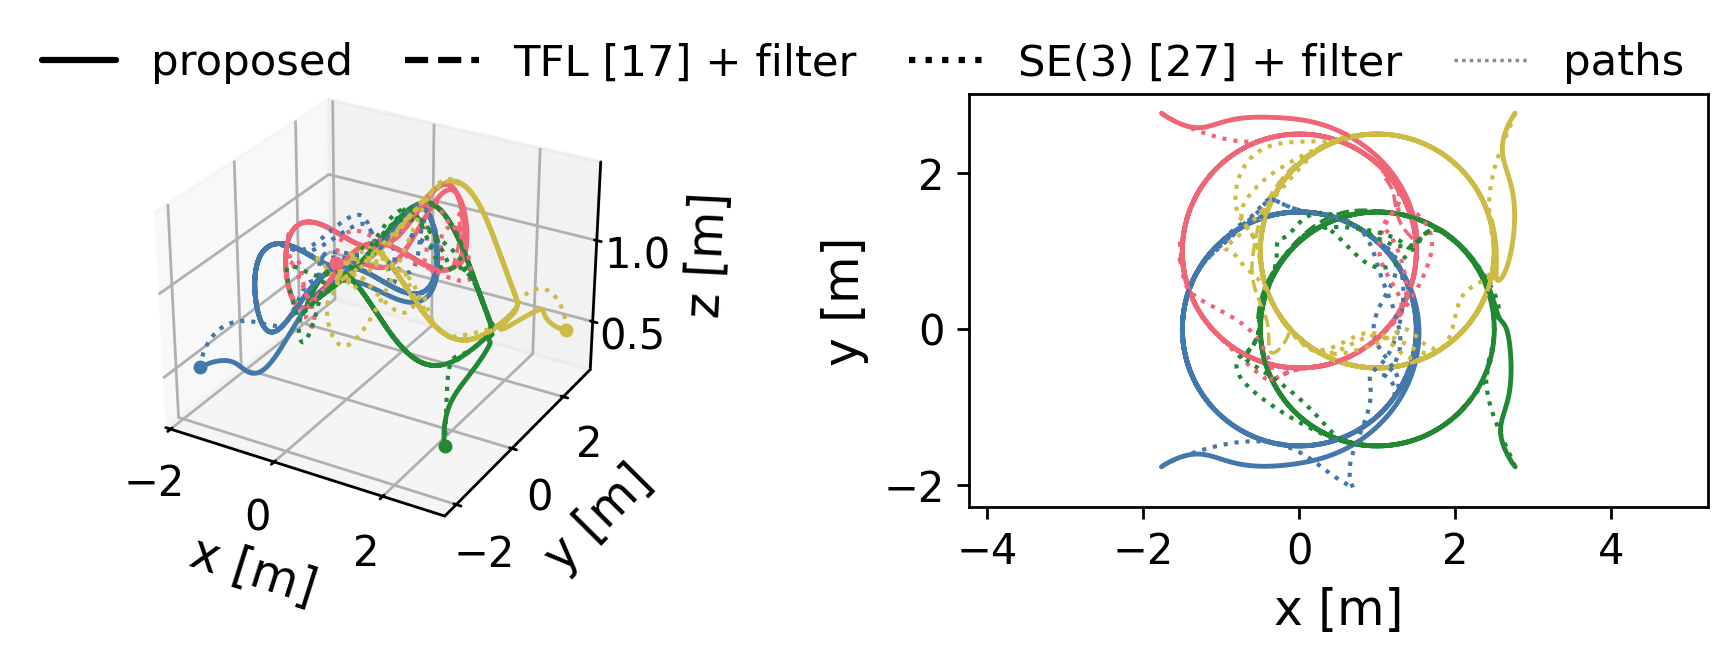
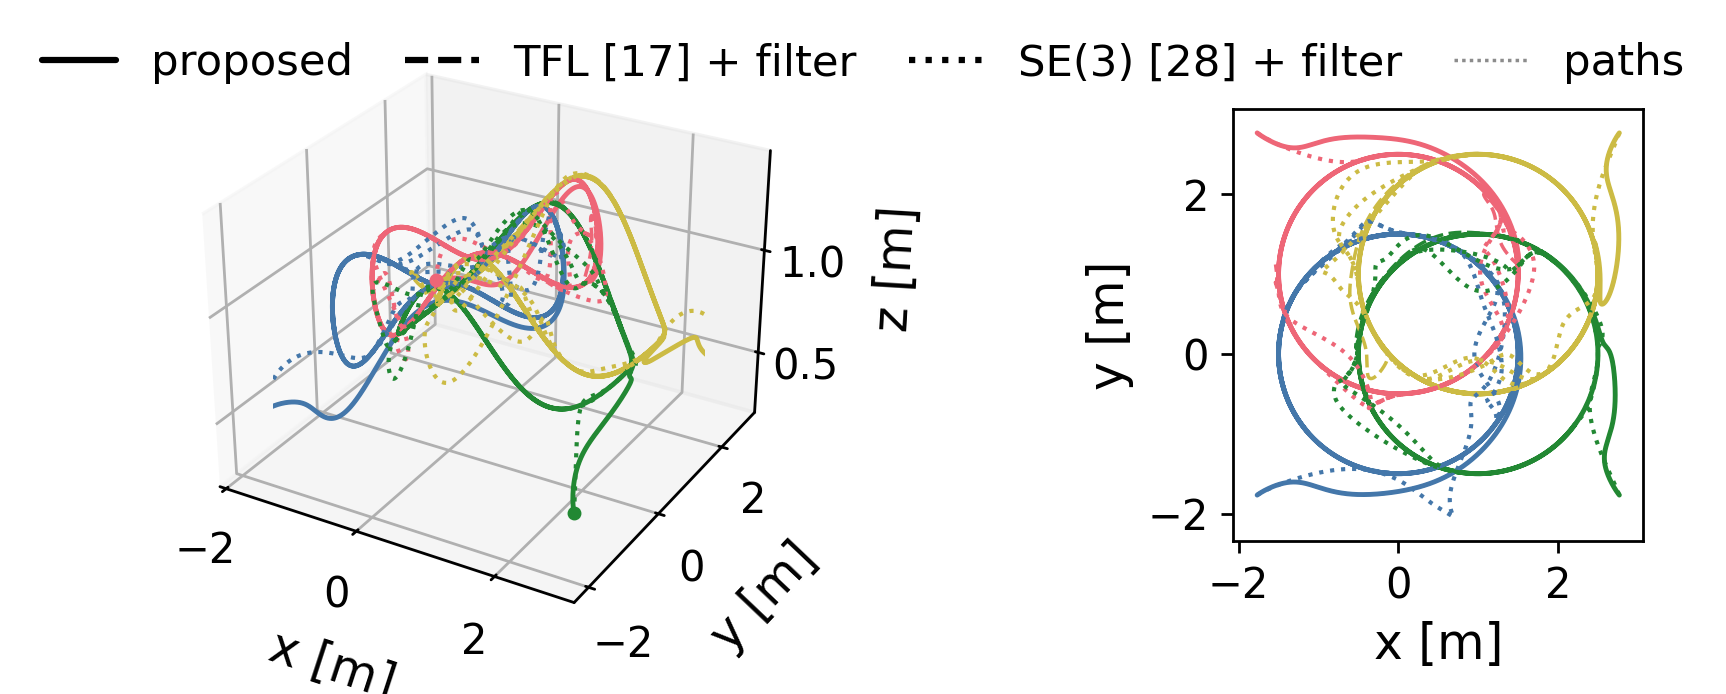
Point the project page at the GitHub repository explicitly and document the end-to-end reproduction path; refresh the figures

diff --git a/docs/index.html b/docs/index.html
@@ -25,6 +25,7 @@ window.MathJax = {tex:{inlineMath:[["\\(","\\)"]]}, svg:{fontCache:"global"}};
     <a href="#comparison">Comparison</a>
     <a href="#parameters">Parameters</a>
     <a href="#reproduce">Reproduce</a>
+    <a href="https://github.com/gradslab/safe_multiquad_pf">GitHub</a>
   </nav>
   <button id="theme" class="btn" type="button" aria-label="Switch colour theme">Theme</button>
 </header>
@@ -53,7 +54,7 @@ window.MathJax = {tex:{inlineMath:[["\\(","\\)"]]}, svg:{fontCache:"global"}};
       animations behind the paper's figures, the full three-controller comparison, and everything
       needed to reproduce them.</p>
     <div class="buttons">
-      <a class="btn primary" href="https://github.com/gradslab/safe_multiquad_pf">Code and data</a>
+      <a class="btn primary" href="https://github.com/gradslab/safe_multiquad_pf">GitHub: code and data</a>
       <a class="btn" href="#comparison">Comparison</a>
       <a class="btn" href="#reproduce">Reproduce the figures</a>
     </div>
@@ -191,10 +192,18 @@ window.MathJax = {tex:{inlineMath:[["\\(","\\)"]]}, svg:{fontCache:"global"}};
     <div class="sec-head">
       <span class="sec-tag">Reproduce</span>
       <h2>Reproducing this</h2>
-      <p>The simulation code is in the repository under <code>sim/</code>. The verification gates
+      <p>Everything in the paper and on this page comes out of the
+      <a href="https://github.com/gradslab/safe_multiquad_pf">GitHub repository</a>, from the
+      simulation code under <code>sim/</code>. The verification gates
       run first: they check the controller algebra over thousands of random states, validate the
       phase layer against finite differences, and cross-check the closed-form solve against a
-      numerical QP and the assembled dynamics against direct symbolic differentiation.</p>
+      numerical QP and the assembled dynamics against direct symbolic differentiation. The six
+      rollouts then write the state logs, the analysis script computes every number quoted in
+      Section&nbsp;V of the paper, <code>fig_paper_suite.py</code> regenerates the paper's
+      Figs.&nbsp;2 and&nbsp;3 together with the plots on this page, and
+      <code>drake_render.py</code> renders the animations above. One command,
+      <code>bash&nbsp;reproduce.sh</code>, runs the install, the gates, the rollouts, the
+      metrics, and the figures end to end.</p>
     </div>
 <pre><code><span class="c"># set up</span>
 git clone https://github.com/gradslab/safe_multiquad_pf.git

diff --git a/sim/experiments/fig_paper_suite.py b/sim/experiments/fig_paper_suite.py
@@ -31,7 +31,7 @@ import scenario_sine as sine
 
 COLORS = {"quad_A": "#4477AA", "quad_B": "#EE6677", "quad_C": "#228833", "quad_D": "#CCBB44"}
 STYLE = {"proposed": ("-", 1.4), "baseline": ("--", 1.0), "se3": (":", 1.2)}
-LABEL = {"proposed": "proposed", "baseline": "TFL [17] + filter", "se3": "SE(3) [27] + filter"}
+LABEL = {"proposed": "proposed", "baseline": "TFL [17] + filter", "se3": "SE(3) [28] + filter"}
 DS = 0.5
 
 plt.rcParams.update({"font.size": 8, "axes.labelsize": 8, "axes.titlesize": 8,
@@ -98,9 +98,12 @@ def traj_figure(scenario, N, tag, out, layout, top_xlim=None):
     runs = {c: r for c, r in runs.items() if r is not None}
     names = runs["proposed"]["names"]
     if layout == "lr":
-        fig = plt.figure(figsize=(7.0, 2.4))
-        ax3 = fig.add_subplot(1, 2, 1, projection="3d")
-        ax2 = fig.add_subplot(1, 2, 2)
+        fig = plt.figure(figsize=(7.6, 2.4))
+        # tight top-view limits leave spare width; give it to the 3D panel
+        wr = [1.0, 1.0] if top_xlim is not None else [1.55, 1.0]
+        gs = fig.add_gridspec(1, 2, width_ratios=wr)
+        ax3 = fig.add_subplot(gs[0], projection="3d")
+        ax2 = fig.add_subplot(gs[1])
     else:
         fig = plt.figure(figsize=(3.6, 5.4))
         ax3 = fig.add_subplot(2, 1, 1, projection="3d")
@@ -122,7 +125,7 @@ def traj_figure(scenario, N, tag, out, layout, top_xlim=None):
     ax3.tick_params(pad=-2)
     ax3.view_init(elev=28, azim=-60)
     try:
-        ax3.set_box_aspect(None, zoom=1.2)
+        ax3.set_box_aspect(None, zoom=1.45)
     except TypeError:
         pass
     ax2.set_xlabel("x [m]"); ax2.set_ylabel("y [m]")
@@ -131,13 +134,16 @@ def traj_figure(scenario, N, tag, out, layout, top_xlim=None):
         ax2.set_ylim(-6.2, 6.2)
         ax2.set_aspect("equal", adjustable="box")
     else:
-        ax2.set_aspect("equal", adjustable="datalim")
+        b, pad = ax2.dataLim, 0.3
+        ax2.set_xlim(b.x0 - pad, b.x1 + pad)
+        ax2.set_ylim(b.y0 - pad, b.y1 + pad)
+        ax2.set_aspect("equal", adjustable="box")
     handles = [Line2D([0], [0], color="k", ls=STYLE[c][0], lw=1.8, label=LABEL[c])
                for c in runs] + [Line2D([0], [0], color="0.55", ls=(0, (1, 1.2)), lw=1.0, label="paths")]
-    fig.legend(handles=handles, ncol=4, loc="upper center", bbox_to_anchor=(0.5, 1.09),
+    fig.legend(handles=handles, ncol=4, loc="upper center", bbox_to_anchor=(0.5, 1.13),
                frameon=False, handlelength=1.7, columnspacing=1.2)
-    fig.tight_layout(pad=0.4, rect=(0, 0, 1, 0.97))
-    fig.subplots_adjust(wspace=0.30)   # keep the 3D z-label clear of the top view's y-label
+    fig.tight_layout(pad=0.2, rect=(0, 0, 1, 0.97))
+    fig.subplots_adjust(wspace=0.02 if top_xlim is None else 0.30)  # sine's wide top view needs the gap for the labels
     fig.savefig(out, format="eps", bbox_inches="tight")
     fig.savefig(out.replace(".eps", ".png"), dpi=250, bbox_inches="tight")
     plt.close(fig)
